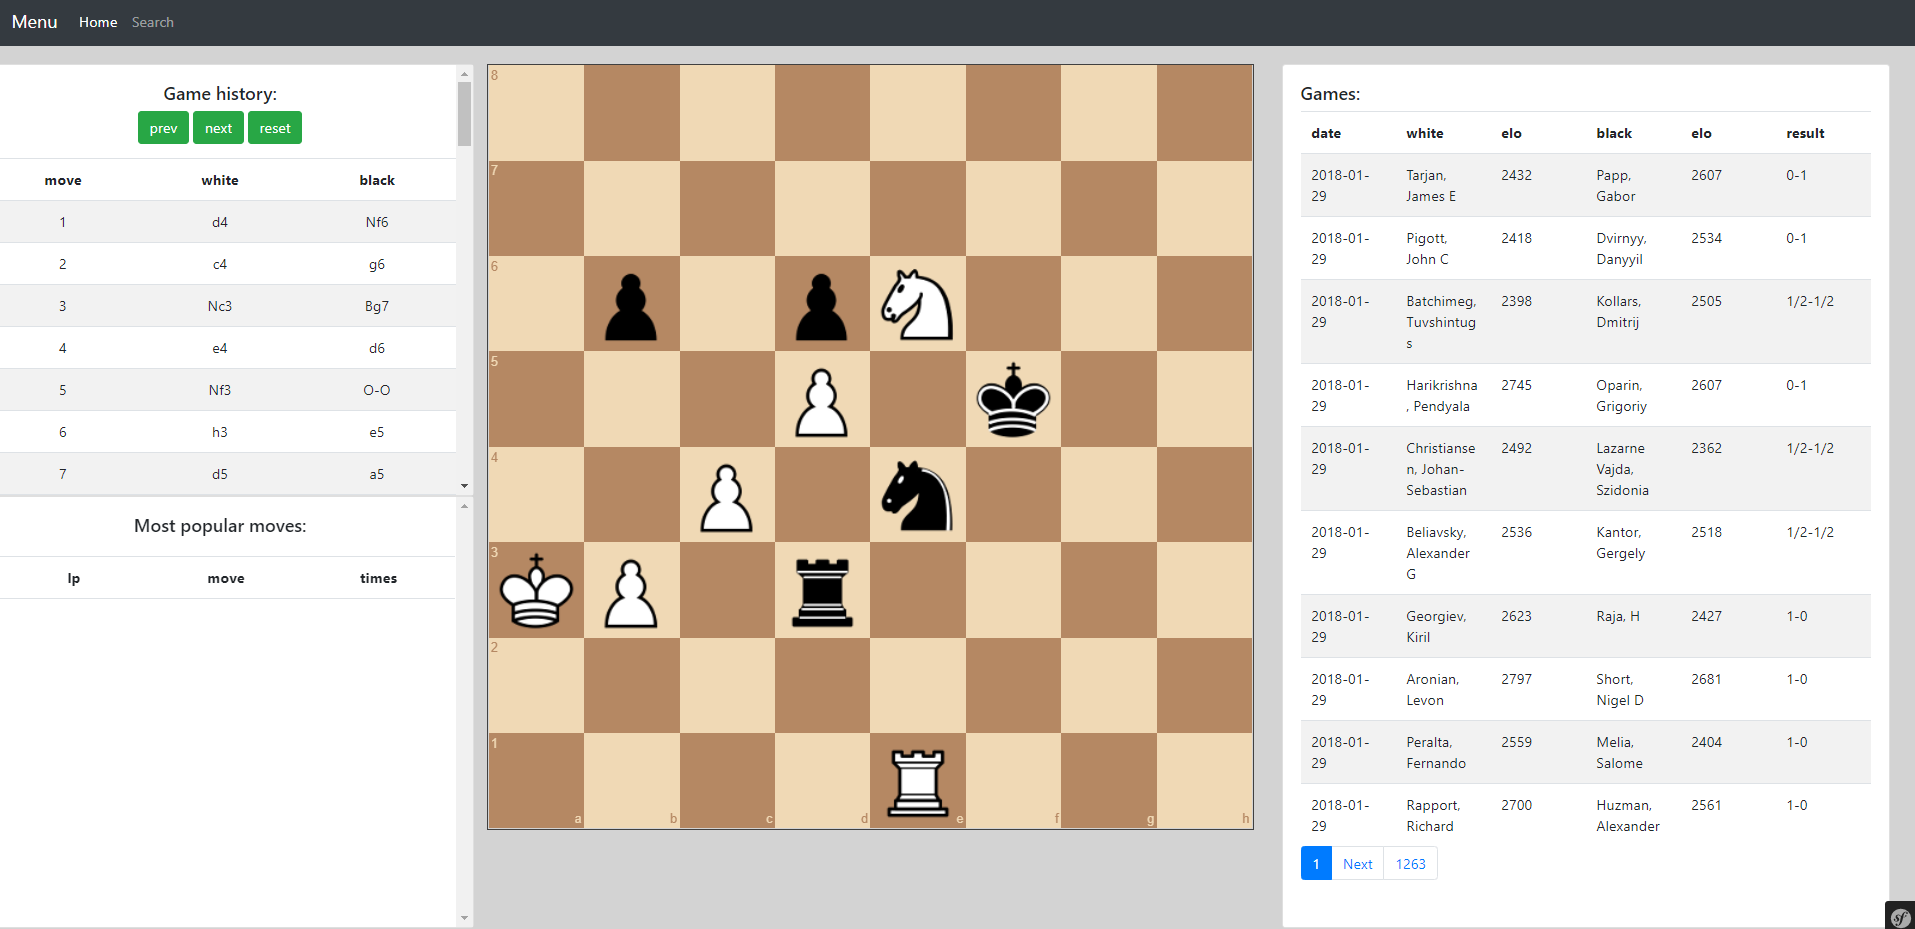
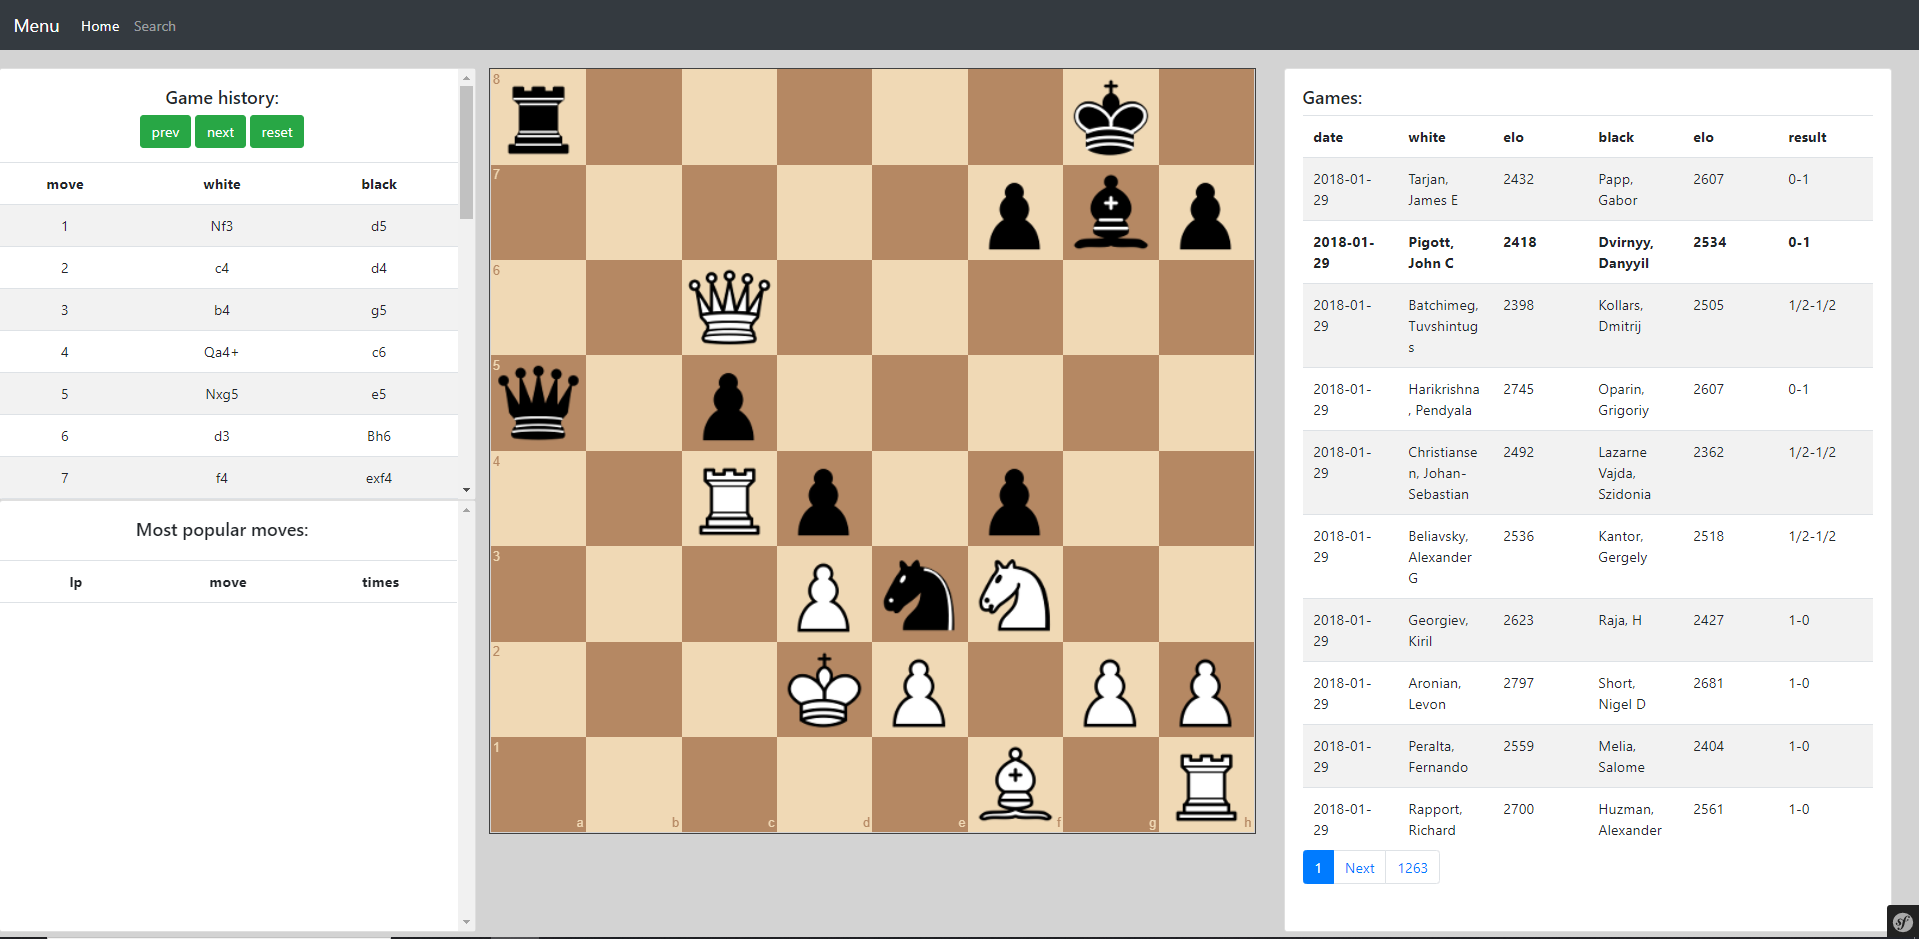
- make selected games bold

diff --git a/assets/js/components/GameTable.vue b/assets/js/components/GameTable.vue
@@ -20,7 +20,7 @@
         </thead>
         <tbody>
           <template v-for="game in gamesDb.items">
-            <tr v-on:click="loadGame" :data-pgn="game.pgn">
+            <tr v-on:click="loadGame" :data-pgn="game.pgn" :data-id="game.id" :v-bind:class="{ activeRow: isActive }">
               <td>{{game.date}}</td>
               <td>{{game.white}}</td>
               <td>{{game.whiteElo}}</td>
@@ -49,6 +49,7 @@
 import axios from "axios";
 import Store from '../store/store.js'
 import {createInstance} from 'vuex-pagination'
+import * as Func from '../modules/functions.js';
 
 export default {
   name: "GameTable",
@@ -57,11 +58,17 @@ export default {
       games: [],
       errors: [],
       activeFirst: true,
-      activeLast: false
+      activeLast: false,
+      isActive: false
     }
   },
   methods: {
     loadGame: function (event) {
+      this.isActive = true;
+
+      let id = event.currentTarget.getAttribute('data-id');
+      Func.makeSelectedGameBold(id);
+
       let pgn = event.currentTarget.getAttribute('data-pgn');
       this.$store.commit('changePgn', pgn);
       this.$store.commit('calculateFen', pgn);
@@ -107,7 +114,10 @@ export default {
     gamesDb: createInstance('games', {
       page: 1,
       pageSize: 10
-    })
+    }),
+    activeRow: function (event) {
+      console.log(event);
+    },
   },
   mounted () {
     var url = Routing.generate('ajax_get_games');

diff --git a/assets/js/modules/functions.js b/assets/js/modules/functions.js
@@ -42,3 +42,8 @@ export function onSnapEnd () {
 
     store.state.board.position(game.fen());
 }
+
+export function makeSelectedGameBold(id) {
+    $("tr").removeClass('activeGame');
+    $("tr[data-id='" + id +"']").addClass('activeGame');
+}

diff --git a/assets/styles/app.css b/assets/styles/app.css
@@ -32,3 +32,7 @@ body {
 .row {
     margin-right: 0px;
 }
+
+.activeGame {
+    font-weight: bold;
+}

diff --git a/src/Controller/ApiController.php b/src/Controller/ApiController.php
@@ -58,11 +58,6 @@ class ApiController extends AbstractController
 
         $result = $this->gameService->getGamesInfoRange($page, $limit);
 
-        $games = [];
-
-        $gamesResponse['items'] = $games;
-        $gamesResponse['total'] = 1000;
-
         return new JsonResponse([$result]);
     }
 

diff --git a/src/Service/GameService.php b/src/Service/GameService.php
@@ -40,6 +40,7 @@ class GameService
 
         foreach ($items as $pageItem) {
             $games[] = [
+                "id" => $pageItem->getId(),
                 "pgn" => $pageItem->getPgn(),
                 "white" => $pageItem->getWhite(),
                 "black" => $pageItem->getBlack(),
